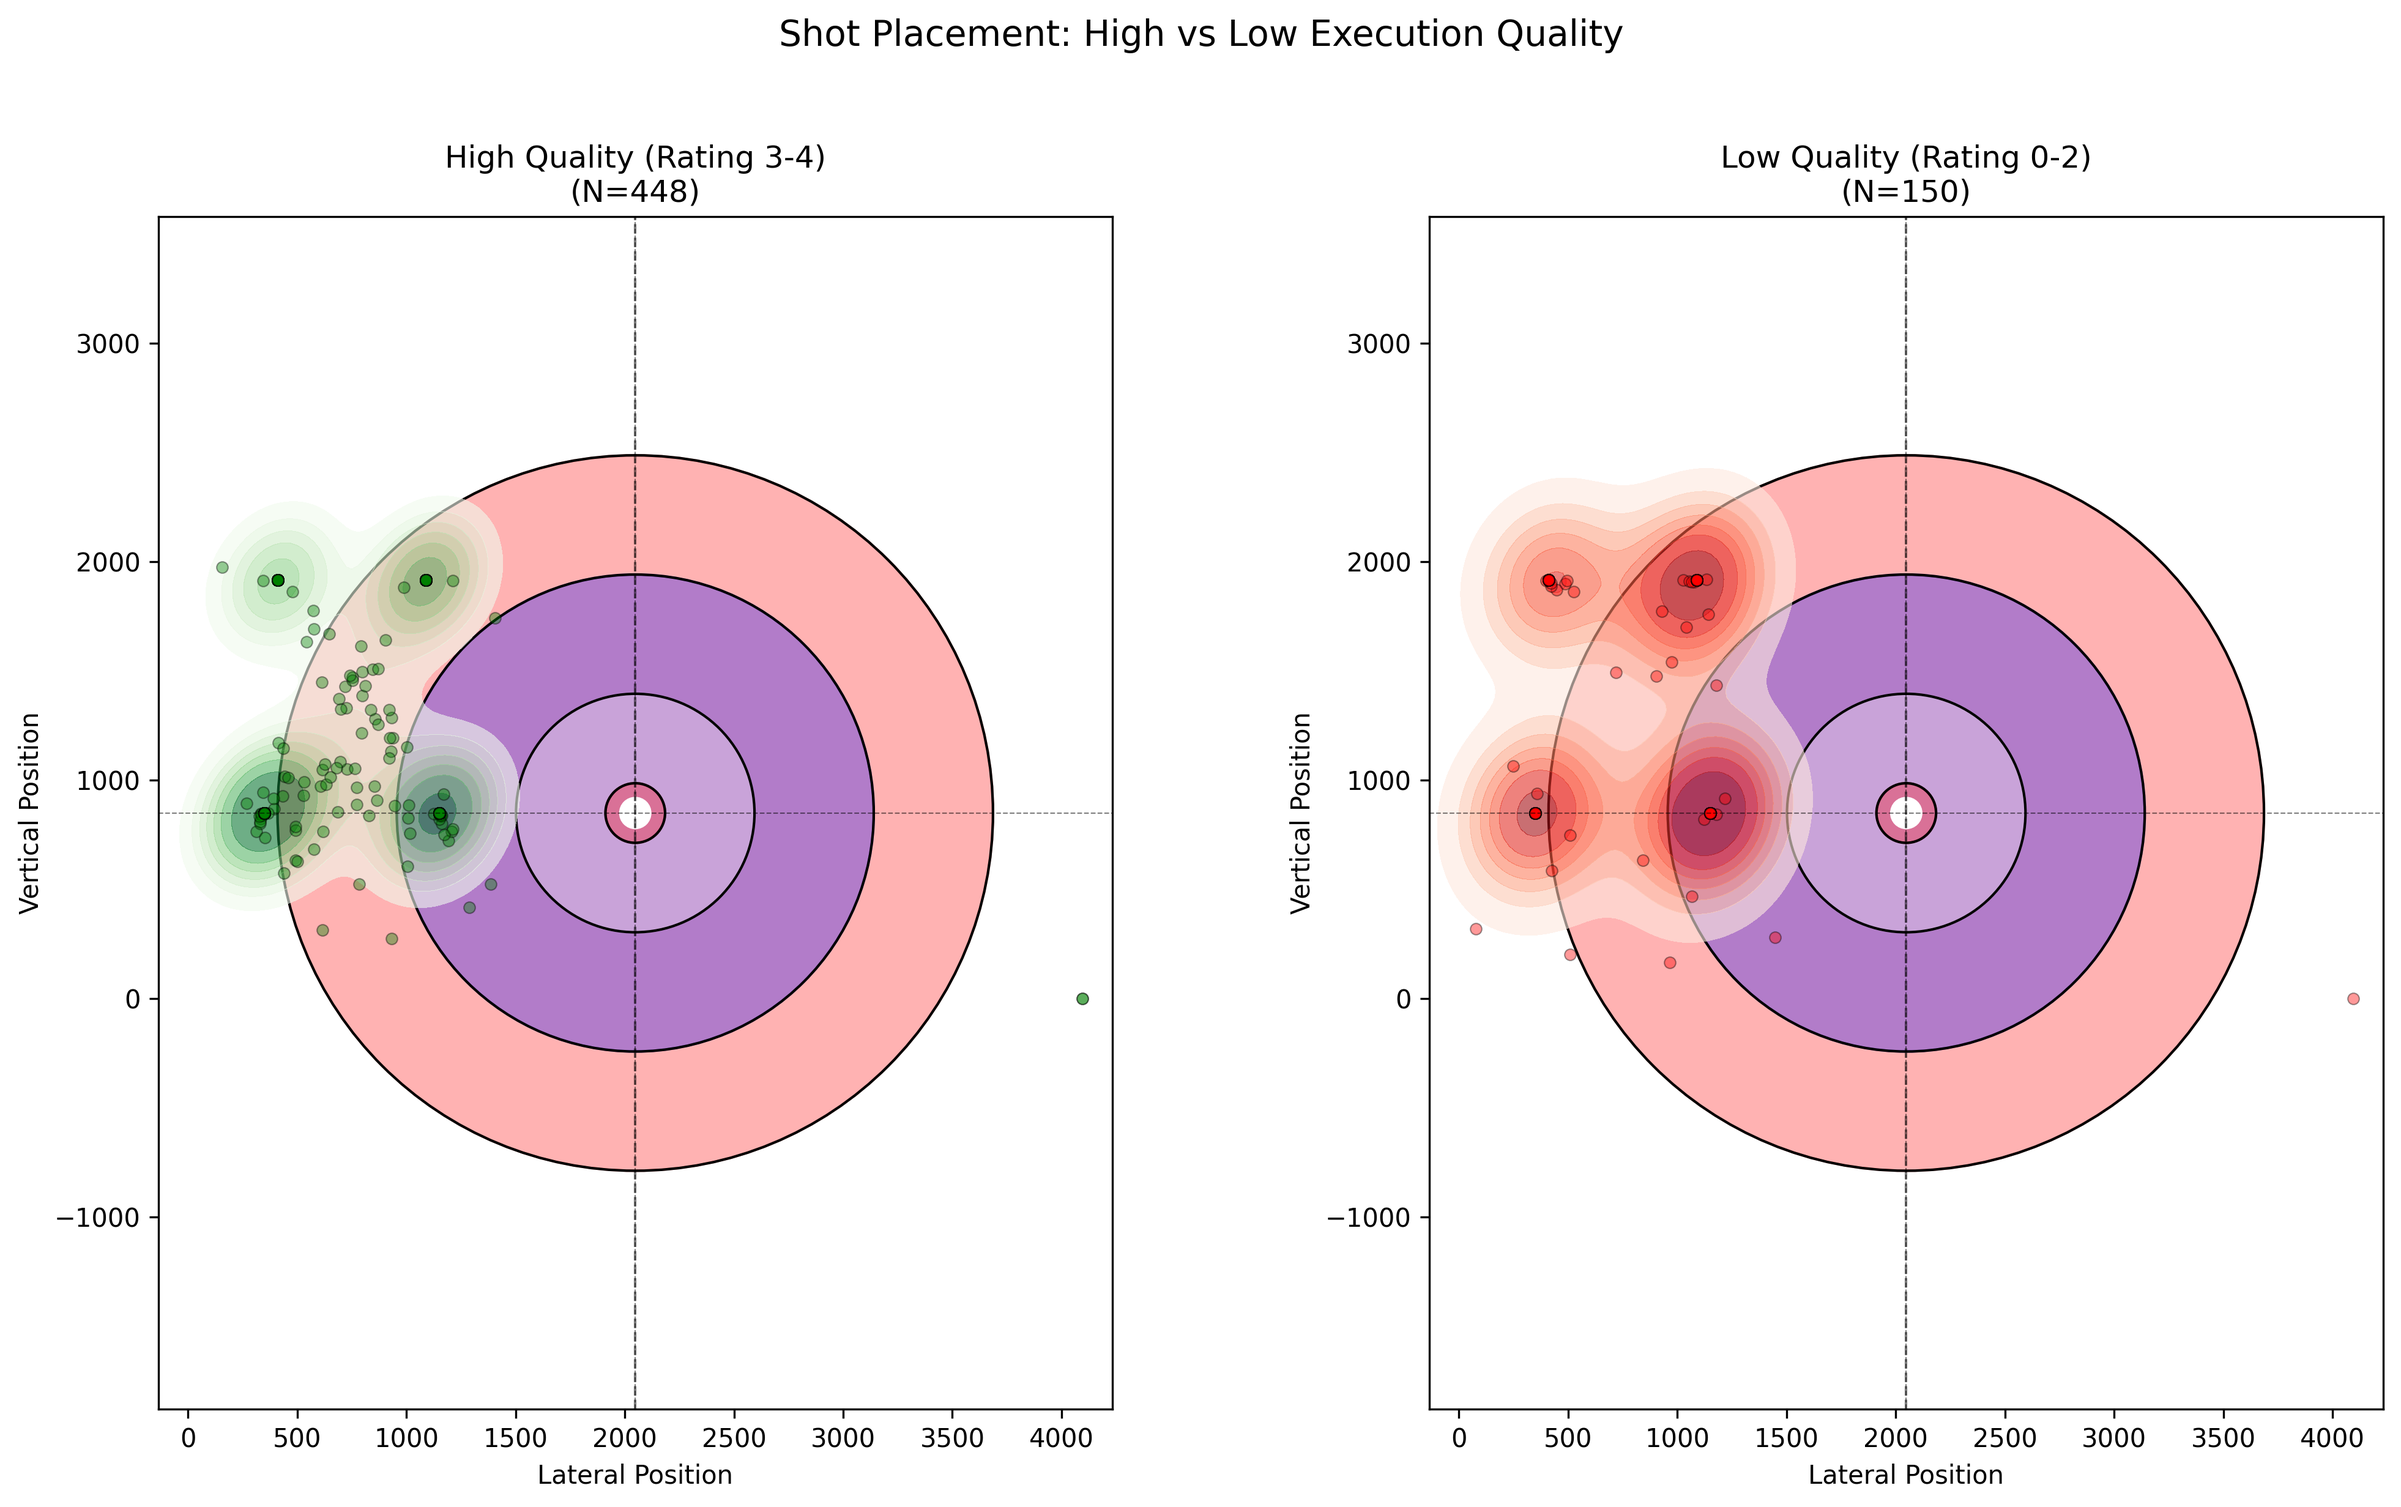
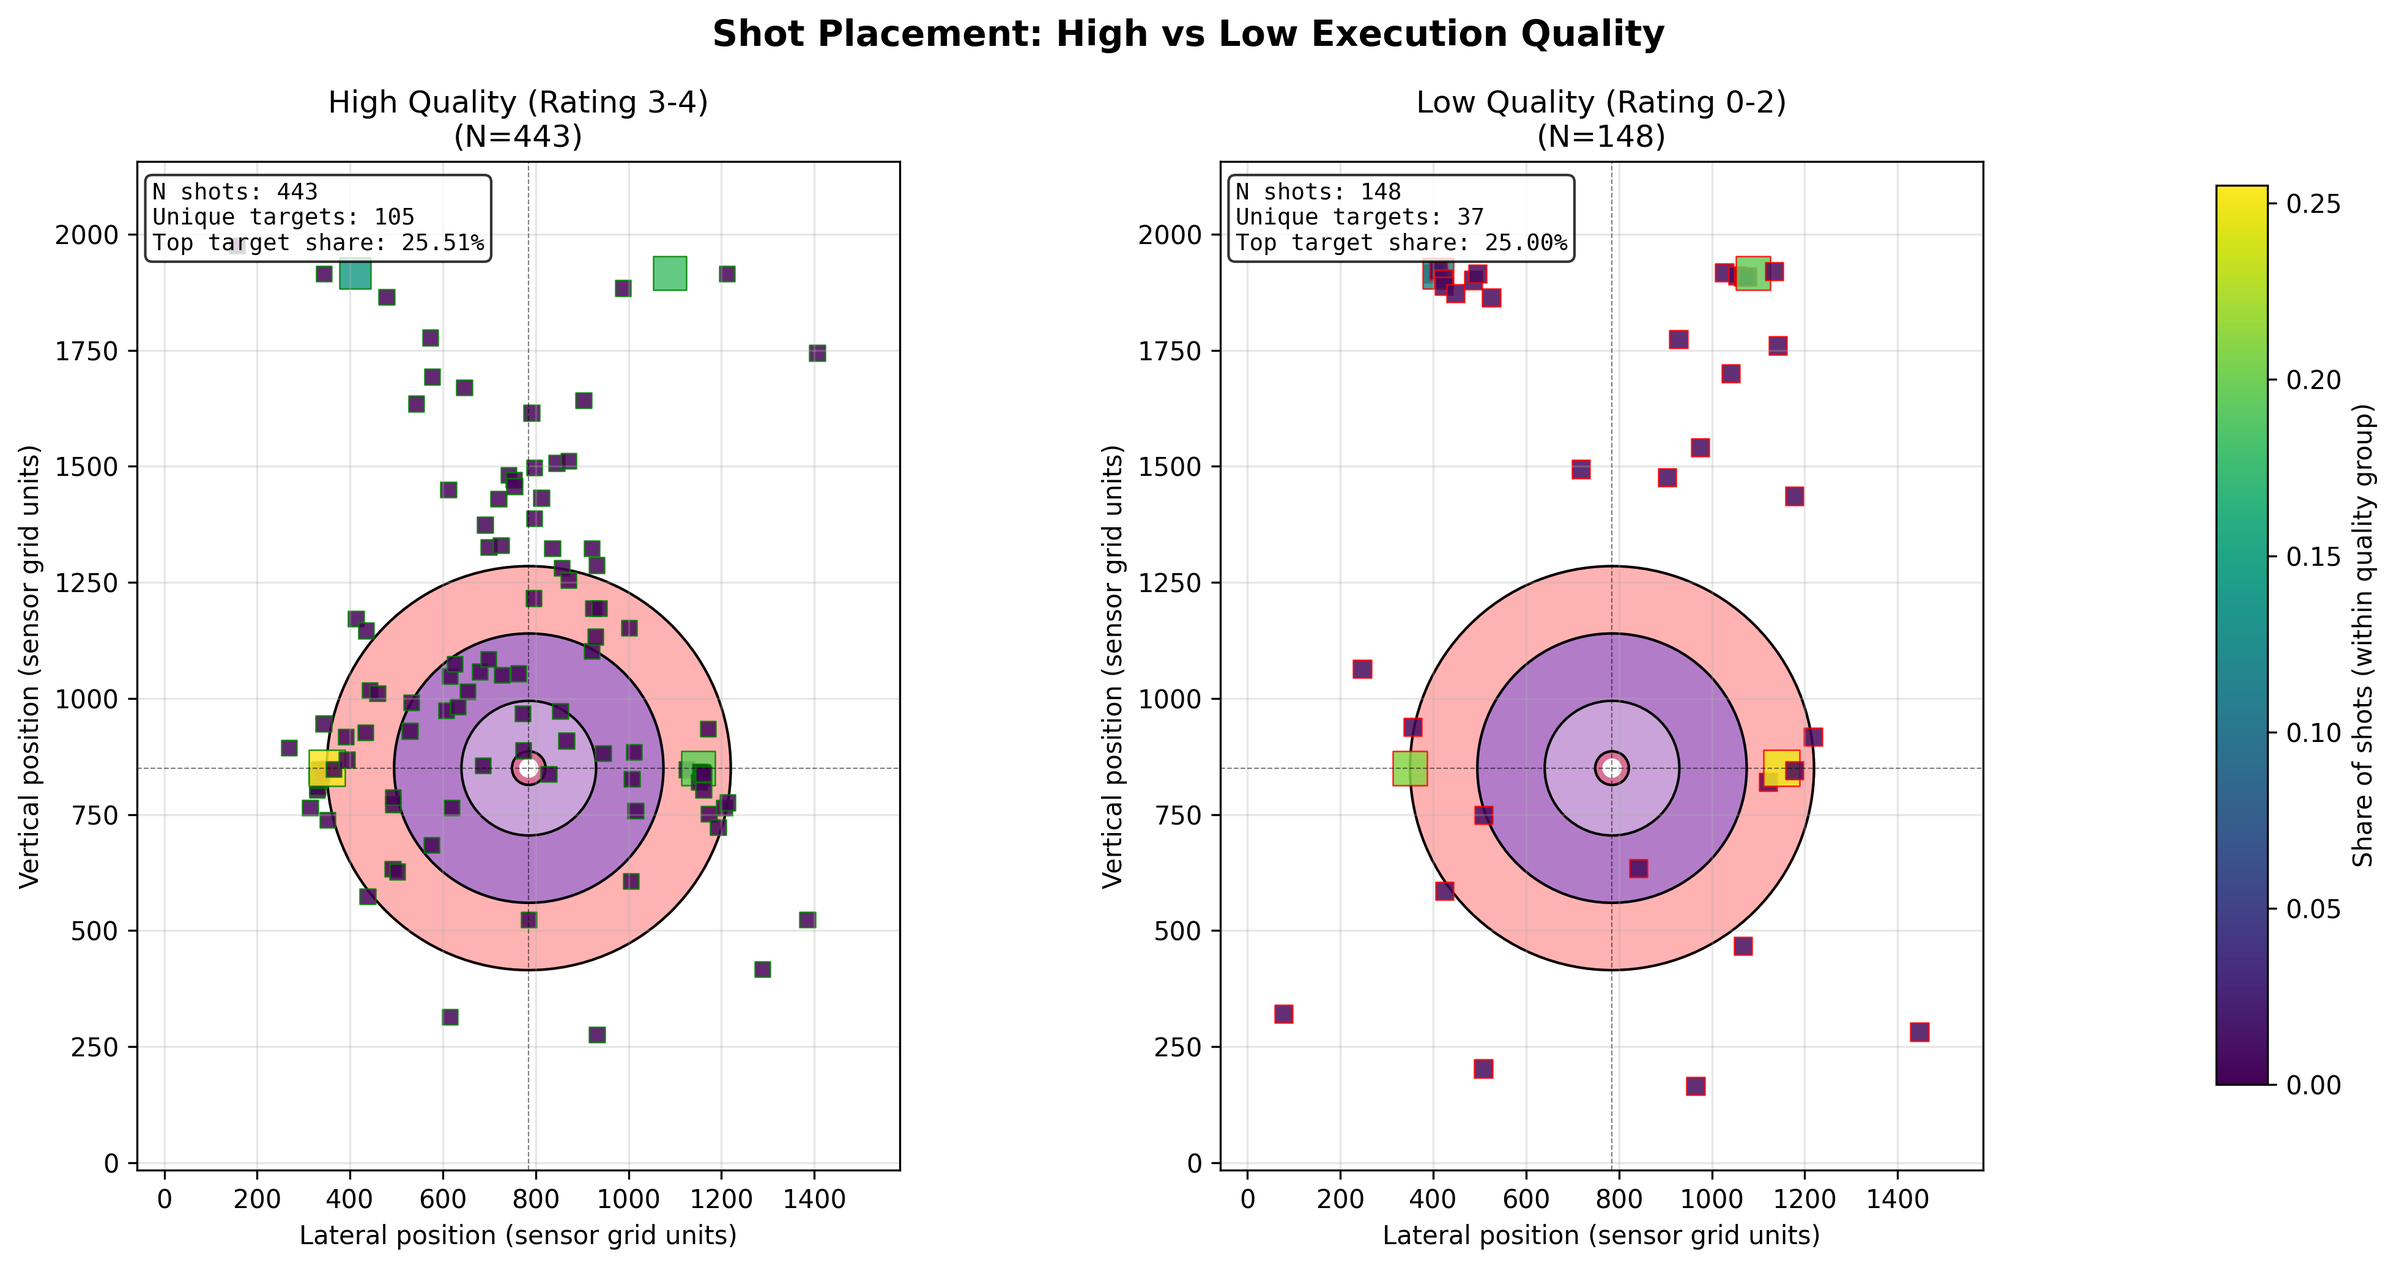
Update spatial quality plot and report text

diff --git a/2026/projects/counter_strategy/report/main.tex b/2026/projects/counter_strategy/report/main.tex
@@ -28,7 +28,7 @@
 \maketitle
 
 \begin{abstract}
-\noindent This report presents the development, methodology, and strategic implications of the \textbf{Counter-Strategy Simulator}, an advanced analytics engine designed to optimize defensive decision-making in Mixed Doubles Curling. The introduction of the ``Power Play'' in Mixed Doubles has fundamentally altered the strategic landscape, creating high-leverage situations where traditional heuristics often fail. By leveraging a dataset of over \textbf{26,000 elite-level shots} across \textbf{598 Power Play ends}, we construct a rigorous probabilistic framework for defensive play. Our system integrates \textbf{Gaussian Mixture Models (GMM)} to profile opponent tendencies, \textbf{Kernel Density Estimation (KDE)} to map spatial precision, a \textbf{Random Forest classifier} to predict opponent responses, and a \textbf{Risk-Aware Optimizer} using Conditional Value at Risk (CVaR) to tailor decisions to game state. We demonstrate that the ``Guard Wall'' strategy provides superior risk-adjusted performance across most scenarios, with our execution sensitivity analysis showing it has a forgiveness gap of only 0.03 points compared to 0.21 for alternative strategies. Our ``Coach-Ready'' playbook provides specific, actionable guidelines backed by stratified statistical analysis that controls for selection bias in Power Play timing decisions.
+\noindent This report presents the development, methodology, and strategic implications of the \textbf{Counter-Strategy Simulator}, an advanced analytics engine designed to optimize defensive decision-making in Mixed Doubles Curling. The introduction of the ``Power Play'' in Mixed Doubles has fundamentally altered the strategic landscape, creating high-leverage situations where traditional heuristics often fail. By leveraging a dataset of over \textbf{26,000 elite-level shots} across \textbf{598 Power Play ends}, we construct a rigorous probabilistic framework for defensive play. Our system integrates \textbf{Gaussian Mixture Models (GMM)} to profile opponent tendencies, \textbf{discrete spatial target maps} to characterize placement precision, a \textbf{Random Forest classifier} to predict opponent responses, and a \textbf{Risk-Aware Optimizer} using Conditional Value at Risk (CVaR) to tailor decisions to game state. We demonstrate that the ``Guard Wall'' strategy provides superior risk-adjusted performance across most scenarios, with our execution sensitivity analysis showing it has a forgiveness gap of only 0.03 points compared to 0.21 for alternative strategies. Our ``Coach-Ready'' playbook provides specific, actionable guidelines backed by stratified statistical analysis that controls for selection bias in Power Play timing decisions.
 \end{abstract}
 
 \section{Introduction}
@@ -51,7 +51,7 @@ To answer these questions, we developed the \textbf{Counter-Strategy Simulator}.
 Our research synthesizes methodologies from three distinct domains of sports analytics: Spatial Analysis, Win Probability Modeling, and Game Theory.
 
 \subsection{Spatial Analytics: The ``CourtVision'' of Curling}
-In 2012, Kirk Goldsberry revolutionized basketball analytics with ``CourtVision'' \cite{goldsberry2012}, a framework that mapped NBA shooting efficiency to specific spatial coordinates on the court. He demonstrated that a player's value was not just their shooting percentage, but the spatial distribution of their successful shots. We apply this same logic to curling. Traditional stats track ``Shooting Percentage'' (e.g., 85\%), but they fail to distinguish between a shot that lands on the button and one that lands on the tee-line. Using \textbf{Kernel Density Estimation (KDE)}, we construct ``Heatmaps of Success'' for key defensive shots, identifying the precise ``landing zones'' required to neutralize a Power Play.
+In 2012, Kirk Goldsberry revolutionized basketball analytics with ``CourtVision'' \cite{goldsberry2012}, a framework that mapped NBA shooting efficiency to specific spatial coordinates on the court. He demonstrated that a player's value was not just their shooting percentage, but the spatial distribution of their successful shots. We apply this same logic to curling. Traditional stats track ``Shooting Percentage'' (e.g., 85\%), but they fail to distinguish between a shot that lands on the button and one that lands on the tee-line. Using \textbf{grid-based location frequency maps} (the event system stores coordinates on a discrete sensor grid), we construct ``Target Maps of Success'' for key defensive shots, identifying the placement zones required to neutralize a Power Play.
 
 \subsection{Expected Value and Win Probability}
 The concept of ``Expected Goals'' (xG) in soccer \cite{green2012} allows analysts to quantify the quality of a scoring chance, independent of the outcome. Similarly, our ``Empirical Priors'' module assigns an ``Expected Score'' to every defensive decision. However, maximizing Expected Score is not always the goal. In the NFL, Lock and Nettleton \cite{lock2014} demonstrated that teams should maximize \textbf{Win Probability Added (WPA)}, not just points. We adopt this framework, using Monte Carlo simulation to value the ``Hammer'' and score differential. This allows our agent to make ``suboptimal'' point-expectancy plays if they increase the probability of winning the match (e.g., gambling for a steal when down by 2).
@@ -65,11 +65,11 @@ The core of our analysis is the \texttt{Stones.csv} dataset, a comprehensive rec
 \begin{itemize}
     \item \textbf{Game State:} The End Number (1-8), Score Differential, and Hammer Possession.
     \item \textbf{Shot Metadata:} The ``Task ID'' (intended shot type) and ``Turn'' (handle).
-    \item \textbf{Execution Metrics:} A subjective ``Success Rating'' (0-4) and the precise final coordinates ($x, y$) of the stone in sensor units (approximately 273 units per foot).
+    \item \textbf{Execution Metrics:} A subjective ``Success Rating'' (0-4) and the final coordinates ($x, y$) of the stone on a discrete sensor grid. We treat these coordinates as categorical target points for spatial analysis.
     \item \textbf{Outcomes:} The final score of the end, which serves as our ``ground truth'' label for strategic success.
 \end{itemize}
 
-Data preprocessing involved normalizing coordinate systems across different events, imputing missing shot types using spatial clustering, and aggregating shot-level data into end-level ``Performance Vectors'' for opponent profiling. Teams with fewer than 8 Power Play usages were excluded from clustering analysis to ensure statistical reliability.
+Data preprocessing involved filtering invalid coordinate sentinels, mapping shot tasks to strategy labels, and aggregating shot-level data into end-level ``Performance Vectors'' for opponent profiling. Teams with fewer than 8 Power Play usages were excluded from clustering analysis to ensure statistical reliability.
 
 \section{Methodology}
 
@@ -255,19 +255,19 @@ This confirms that \textit{what} shot we play and \textit{how well} we execute i
 \end{figure}
 
 \subsection{Spatial Precision Analytics}
-To move beyond abstract strategy, we analyzed the spatial distribution of shots using \textbf{Kernel Density Estimation (KDE)}. Figure \ref{fig:spatial} reveals the spatial patterns of defensive shots in Power Play ends.
+To move beyond abstract strategy, we analyzed the spatial distribution of shots using \textbf{grid-based frequency maps} because locations are recorded on a discrete sensor grid. Figure \ref{fig:spatial} reveals the target patterns of defensive shots in Power Play ends.
 
 \begin{figure}[H]
     \centering
     \includegraphics[width=0.7\textwidth]{figures/spatial_with_house.png}
-    \caption{\textbf{Spatial Heatmap with House Overlay.} Draw/Guard shots in Power Play ends (N=389). The curling house rings are overlaid for reference. Coordinate units are sensor-based (approximately 273 units = 1 foot). The KDE reveals clustering near the house center.}
+    \caption{\textbf{Spatial Target Grid with House Overlay.} Draw/Guard shots in Power Play ends (N=389). Squares represent discrete target locations and are sized by frequency. The house overlay is scaled to the dominant tee-line band for orientation only (sensor grid units).}
     \label{fig:spatial}
 \end{figure}
 
 \begin{figure}[H]
     \centering
     \includegraphics[width=0.95\textwidth]{figures/spatial_by_quality.png}
-    \caption{\textbf{Spatial Distribution by Execution Quality.} High-quality shots (left) show tighter clustering than low-quality shots (right), validating the ``margin of error'' concept for training.}
+    \caption{\textbf{Spatial Distribution by Execution Quality.} Target locations are discrete; color shows share of shots within each quality group. High-quality shots (left) concentrate on fewer targets, while low-quality shots (right) spread across more locations.}
     \label{fig:spatial_quality}
 \end{figure}
 
